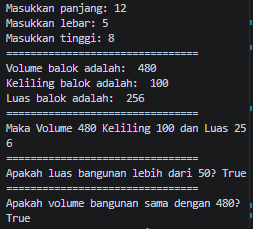
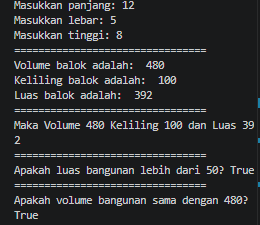
Praktikum 4

diff --git a/praktikum 4/program 4.1.py b/praktikum 4/program 4.1.py
@@ -1,0 +1,74 @@
+#operasi logika atau boolean
+#not, or, and, xor
+print("====NOT====")
+a = True
+b = not a
+print(" data a =", a)
+print("==========Not==========")
+print(" data b =", b)
+
+# OR (jika salah satu bernilai True maka hasilnya True)
+print("====OR====")
+a = False
+b = False
+c = a or b
+print(a, "OR", b, "=", c)
+
+a = False
+b = True
+c = a or b
+print(a, "OR", b, "=", c)
+
+a = True
+b = False
+c = a or b
+print(a, "OR", b, "=", c)
+
+a = True
+b = True
+c = a or b
+print(a, "OR", b, "=", c)
+
+# AND (jika salah satu bernilai False maka hasilnya False)
+print("====AND====")
+a = False
+b = False
+c = a and b
+print(a, "AND", b, "=", c)
+
+a = False
+b = True
+c = a and b
+print(a, "AND", b, "=", c)
+
+a = True
+b = False
+c = a and b
+print(a, "AND", b, "=", c)
+
+a = True
+b = True
+c = a and b
+print(a, "AND", b, "=", c)
+
+#XOR (jika salah satu bernilai True maka hasilnya True, jika keduanya sama maka hasilnya False)
+print("====XOR====")
+a = False
+b = False
+c = a ^ b
+print(a, "XOR", b, "=", c)
+
+a = False
+b = True
+c = a ^ b
+print(a, "XOR", b, "=", c)
+
+a = True
+b = False
+c = a ^ b
+print(a, "XOR", b, "=", c)
+
+a = True
+b = True
+c = a ^ b
+print(a, "XOR", b, "=", c)  

diff --git a/praktikum 4/program 4.2.py b/praktikum 4/program 4.2.py
@@ -1,0 +1,28 @@
+#latihan logika dan komparasi
+#membuat gabungan area tentang rentang dari angka
+#+++++3====10+++++
+inputUser = float(input("Masukkan angka yang bernilai \nkurang dari 3 \natau lebih besar dari 10\n: "))
+print("biasa")
+#+++++3------
+#memeriksa angka kurang dari 3
+isKurangDari3 = inputUser < 3
+print("Kurang dari 3 =", isKurangDari3)
+
+#-----10+++++
+#memeriksa angka lebih dari 10
+isLebihDari10 = inputUser > 10
+print("Lebih dari 10 =", isLebihDari10)
+isCorrect = isKurangDari3 or isLebihDari10
+print("angka yang anda masukkan =", isCorrect)
+print("================================")
+
+#-----3+++++10------
+#kasus irisan
+inputUser = float(input("Masukkan angka yang bernilai \nlebih dari 3 \ndan kurang dari 10\n: "))
+print("irisan")
+isLebihDari3 = inputUser > 3
+print("Lebih dari 3 =", isLebihDari3)
+isKurangDari10 = inputUser < 10
+print("Kurang dari 10 =", isKurangDari10)
+isCorrect = isLebihDari3 and isKurangDari10
+print("angka yang anda masukkan =", isCorrect)

diff --git a/praktikum 4/tempCodeRunnerFile.py b/praktikum 4/tempCodeRunnerFile.py
@@ -1,0 +1,28 @@
+#latihan logika dan komparasi
+#membuat gabungan area tentang rentang dari angka
+#+++++3====10+++++
+inputUser = float(input("Masukkan angka yang bernilai \nkurang dari 3 \natau lebih besar dari 10\n: "))
+print("biasa")
+#+++++3------
+#memeriksa angka kurang dari 3
+isKurangDari3 = inputUser < 3
+print("Kurang dari 3 =", isKurangDari3)
+
+#-----10+++++
+#memeriksa angka lebih dari 10
+isLebihDari10 = inputUser > 10
+print("Lebih dari 10 =", isLebihDari10)
+isCorrect = isKurangDari3 or isLebihDari10
+print("angka yang anda masukkan =", isCorrect)
+print("================================")
+
+#-----3+++++10------
+#kasus irisan
+inputUser = float(input("Masukkan angka yang bernilai \nlebih dari 3 \ndan kurang dari 10\n: "))
+print("irisan")
+isLebihDari3 = inputUser > 3
+print("Lebih dari 3 =", isLebihDari3)
+isKurangDari10 = inputUser < 10
+print("Kurang dari 10 =", isKurangDari10)
+isCorrect = isLebihDari3 and isKurangDari10
+print("angka yang anda masukkan =", isCorrect)

diff --git a/praktikum 4/program 4.4.py b/praktikum 4/program 4.4.py
@@ -1,0 +1,22 @@
+#elif = else if statement, digunakan untuk menambahkan kondisi lain jika kondisi sebelumnya tidak terpenuhi.
+
+nama = input("Nama saya: ")
+
+#if kondisi:
+#  aksi true
+#elif kondisi:
+#  aksi true
+#elif kondisi:
+#  aksi true
+#else:
+#  aksi 
+
+if nama == "Hanif Putra": #kondisi
+    print("Nama saya", nama, "dan saya adalah seorang mahasiswa")
+elif nama == "Hanif": #kondisi
+    print("Nama saya", nama, "dan saya adalah seorang mahasiswa Engineering")
+elif nama == "Putra": #kondisi
+    print("Nama saya", nama, "dan saya adalah seorang mahasiswa Informatika")
+else: #kondisi
+    print("Nama saya", nama, "dan saya bukan seorang mahasiswa")
+print("================================")    

diff --git a/praktikum 4/program 4.3.py b/praktikum 4/program 4.3.py
@@ -1,0 +1,23 @@
+#id dan else statment
+#1. if nya
+#2. kondisinya
+#3. aksinya
+
+nama = input("Nama saya: ")
+
+#1. program if inline
+if nama == "Hanif Putra": print("Nama saya", nama, "dan saya adalah seorang mahasiswa")
+print("================================")
+
+#2. program if indentation
+if nama == "Hanif Putra":
+    print("Nama saya", nama, "dan saya adalah seorang mahasiswa")
+    print(nama, "Kamu Jago Sekali")
+print("================================")
+
+#3. else statement
+if nama == "Hanif Putra":
+    print("Nama saya", nama, "dan saya adalah seorang mahasiswa")
+else:
+    print("Nama saya", nama, "dan saya bukan seorang mahasiswa")
+print("================================")

diff --git a/praktikum 4/tugas.py b/praktikum 4/tugas.py
@@ -1,0 +1,14 @@
+Nama = input("Nama saya: ")
+Umur = int(input("Umur saya: "))
+print("================================")
+
+if Umur >= 0 and Umur <= 12:
+    print("Nama saya", Nama, "dan saya Kategori Anak-anak")
+elif Umur >= 13 and Umur <= 17:
+    print("Nama saya", Nama, "dan saya Kategori Remaja")
+elif Umur >= 18 and Umur <= 59:
+    print("Nama saya", Nama, "dan saya Kategori Dewasa")
+elif Umur >= 60:
+    print("Nama saya", Nama, "dan saya Kategori Lansia")
+else:
+    print("Umur tidak valid")
